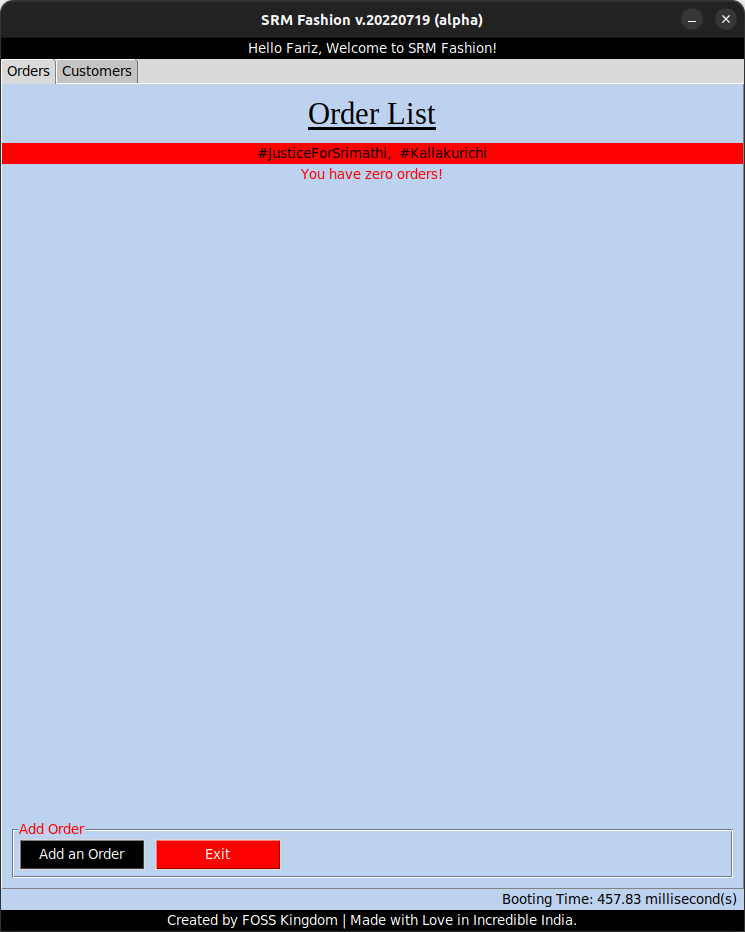
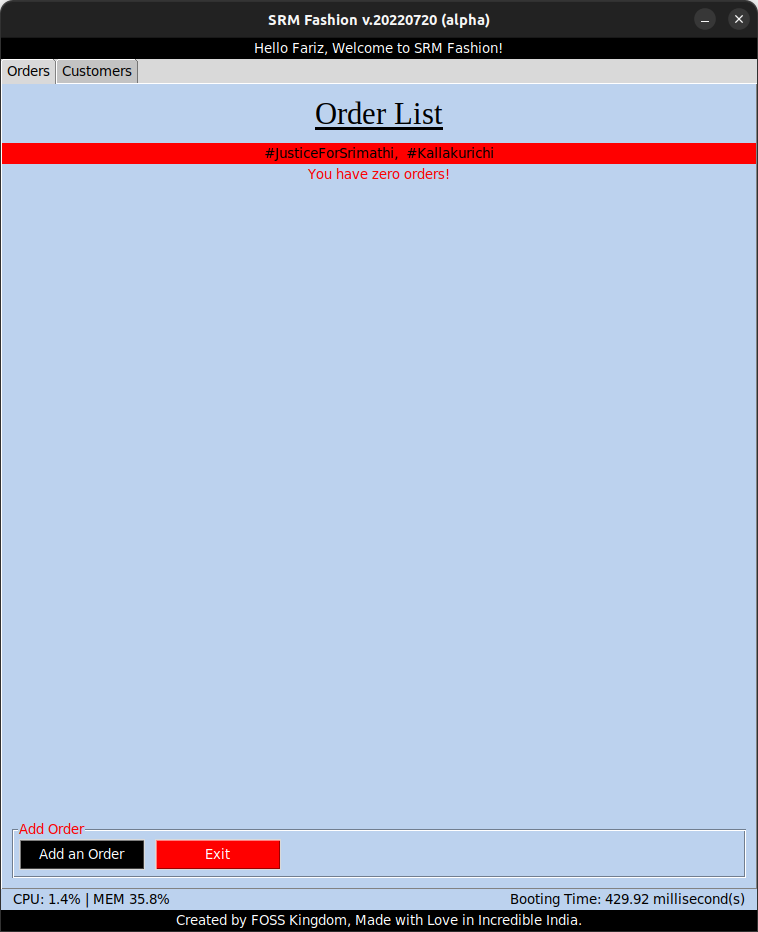
Added real-time cpu monitor

diff --git a/__main__.py b/__main__.py
@@ -23,6 +23,13 @@ def exit_app() -> None:
     terminate()
 
 
+def pstat():
+    cpu: float = cpu_percent()
+    mem = virtual_memory().percent
+    pstat_label.config(text=f"CPU: {cpu}% | MEM {mem}%")
+    pstat_label.after(ms=1000, func=pstat)
+
+
 def search_record():
     search: str = search_var.get().strip()
 
@@ -433,6 +440,7 @@ try:
     print("INFO: Importing built-in modules...")
     from datetime import date, datetime
     from getpass import getuser
+    from os import getuid
     from os import system as terminal
     from os.path import isdir, join, split
     from platform import system as os_env
@@ -455,7 +463,10 @@ try:
     from tkinter.messagebox import askyesno, showinfo
     from tkinter.ttk import Notebook, Treeview
 
+    from psutil import cpu_percent, virtual_memory
+
     today: datetime = datetime.today()
+    pid: int = getuid()
     base_path: str = split(p=__file__)[0]
     database_path: str = join(base_path, "customers.db")
     cache_file_path: str = join(base_path, "__pycache__")
@@ -480,7 +491,7 @@ try:
             + "Created by FOSS Kingdom, Made with Love in Incredible India.\n"
         )
 
-    __version__: str = "v.20220719 (alpha)"
+    __version__: str = "v.20220720 (alpha)"
     total_orders: int = 0
     accent_color_light: str = "lightsteelblue2"
 
@@ -526,6 +537,7 @@ try:
     email_var: StringVar = StringVar()
     gender_var: StringVar = StringVar()
 
+    print(Fore.RED + f"Hello {getuser().title()}, Welcome to SRM Fashion!")
     Label(
         master=app,
         text=f"Hello {getuser().title()}, Welcome to SRM Fashion!",
@@ -688,7 +700,6 @@ try:
     treeview_db.bind(sequence="<Delete>", func=lambda event: delete_entry())
 
     treeview_scroll.config(command=treeview_db.yview)
-
     treeview_db.pack(fill="both", expand=1)
 
     total_customers_label: Label = Label(master=lf21, fg="red", bg=accent_color_light)
@@ -696,7 +707,9 @@ try:
 
     # Customer tab, Search section
     Label(master=lf22, text="Search:", bg=accent_color_light).pack(side="left", padx=10)
-    search_entry: Entry = Entry(master=lf22, textvariable=search_var, width=25)
+    search_entry: Entry = Entry(
+        master=lf22, textvariable=search_var, width=25, state="disabled"
+    )
     search_entry.bind(sequence="<Return>", func=lambda event: search_record())
     search_entry.pack(side="left", padx=25)
 
@@ -855,15 +868,21 @@ try:
     exit_button.bind(sequence="<Return>", func=lambda event: exit_app())
     exit_button.grid(row=0, column=1, padx=5)
 
+    print(Fore.RED + "Created by FOSS Kingdom | Made with Love in Incredible India.")
     Label(
         master=app,
-        text="Created by FOSS Kingdom | Made with Love in Incredible India.",
+        text="Created by FOSS Kingdom, Made with Love in Incredible India.",
         bg="black",
         fg="white",
     ).pack(side="bottom", fill="x")
 
+    pstat_label: Label = Label(master=app, bg=accent_color_light)
+    pstat_label.pack(side="left", fill="x", padx=10)
+
     boot_time_label: Label = Label(master=app, bg=accent_color_light)
-    boot_time_label.pack(side="right", fill="x", padx=5)
+    boot_time_label.pack(side="right", fill="x", padx=10)
+
+    pstat()
 
     end_time: float = time()
     elapsed_time = end_time - start_time
